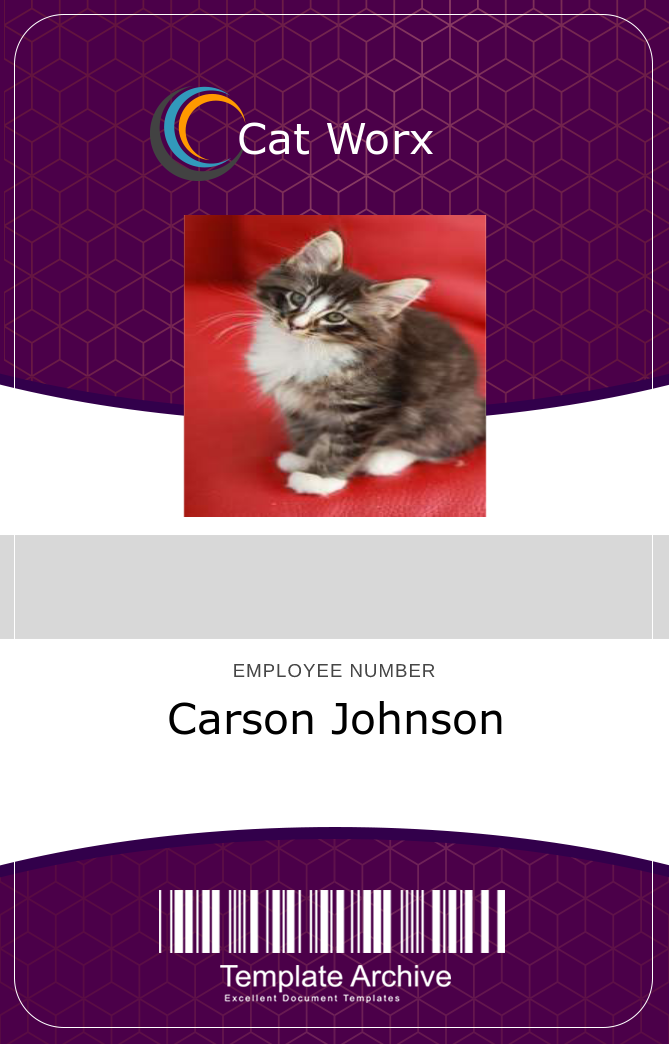
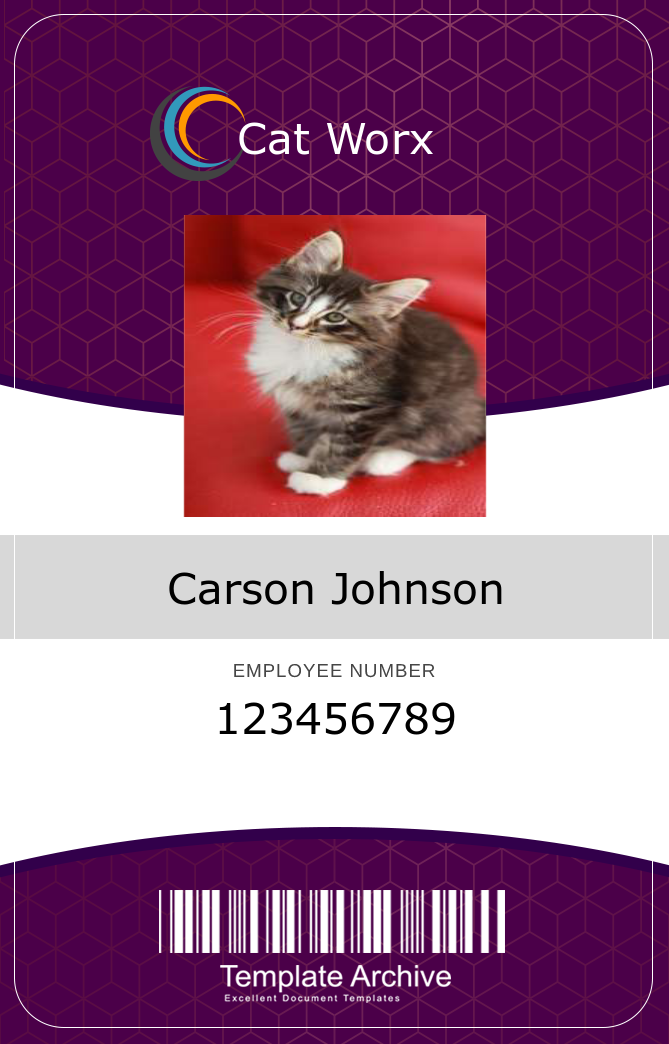
added the employee ID to the badge

Changed region(s): [[0.2392, 0.6743, 0.7474, 0.705], [0.5082, 0.5517, 0.7474, 0.5824], [0.2392, 0.5517, 0.4783, 0.5824]]

diff --git a/Util.cs b/Util.cs
@@ -118,14 +118,27 @@ namespace CatWorx.BadgeMaker
                     graphic.DrawString(
                         employees[i].GetName(),
                         font,
-                        new SolidBrush(Color.Black),
+                        brush,
                         new Rectangle(
                             EMPLOYEE_NAME_START_X,
-                            EMPLOYEE_ID_START_Y,
+                            EMPLOYEE_NAME_START_Y,
                             BADGE_WIDTH,
                             EMPLOYEE_NAME_WIDTH
                         ),
                     format
+                    );
+                    // Employee Id
+                    graphic.DrawString(
+                        employees[i].GetId().ToString(),
+                        font,
+                        brush,
+                        new Rectangle(
+                            EMPLOYEE_ID_START_X,
+                            EMPLOYEE_ID_START_Y,
+                            EMPLOYEE_ID_WIDTH,
+                            EMPLOYEE_ID_HEIGHT
+                        ),
+                        format
                     );
                     badge.Save("data/employeeBadge.png");
                 }
